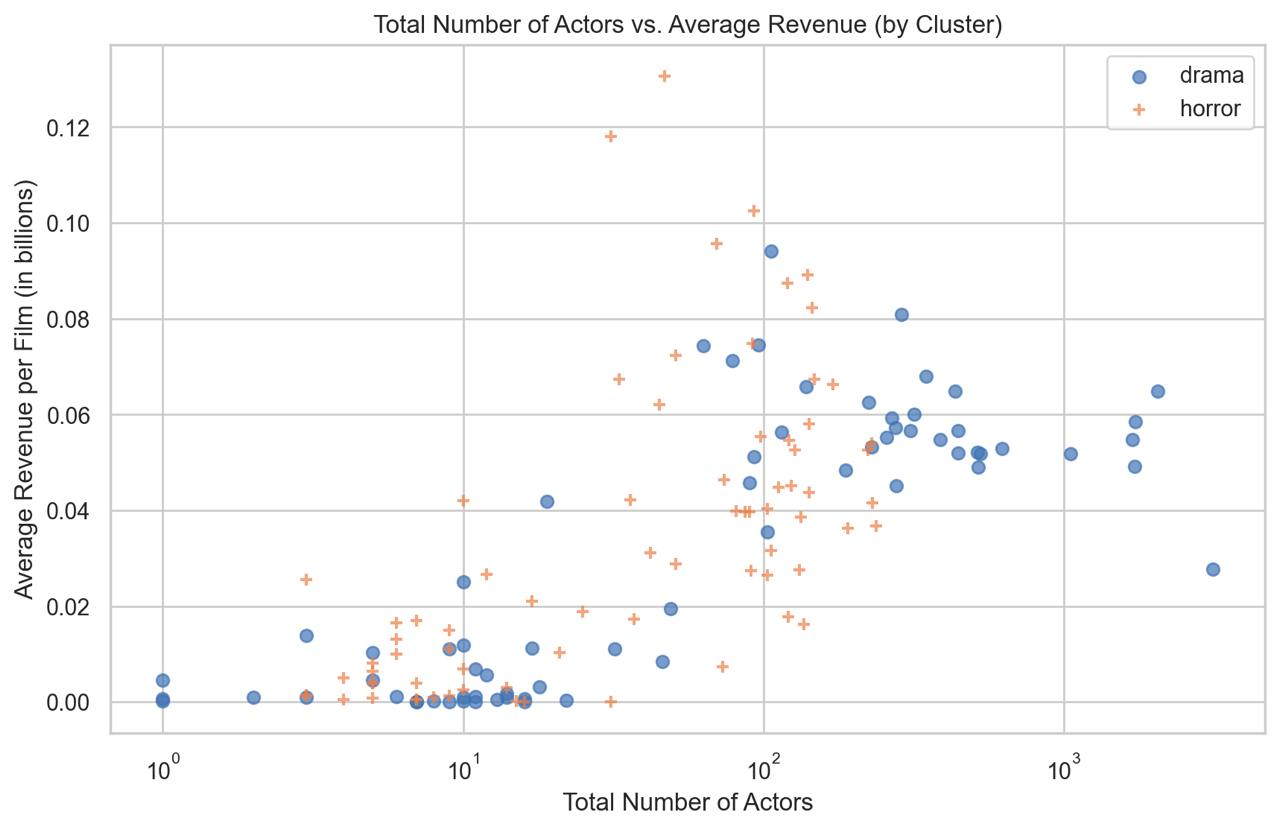
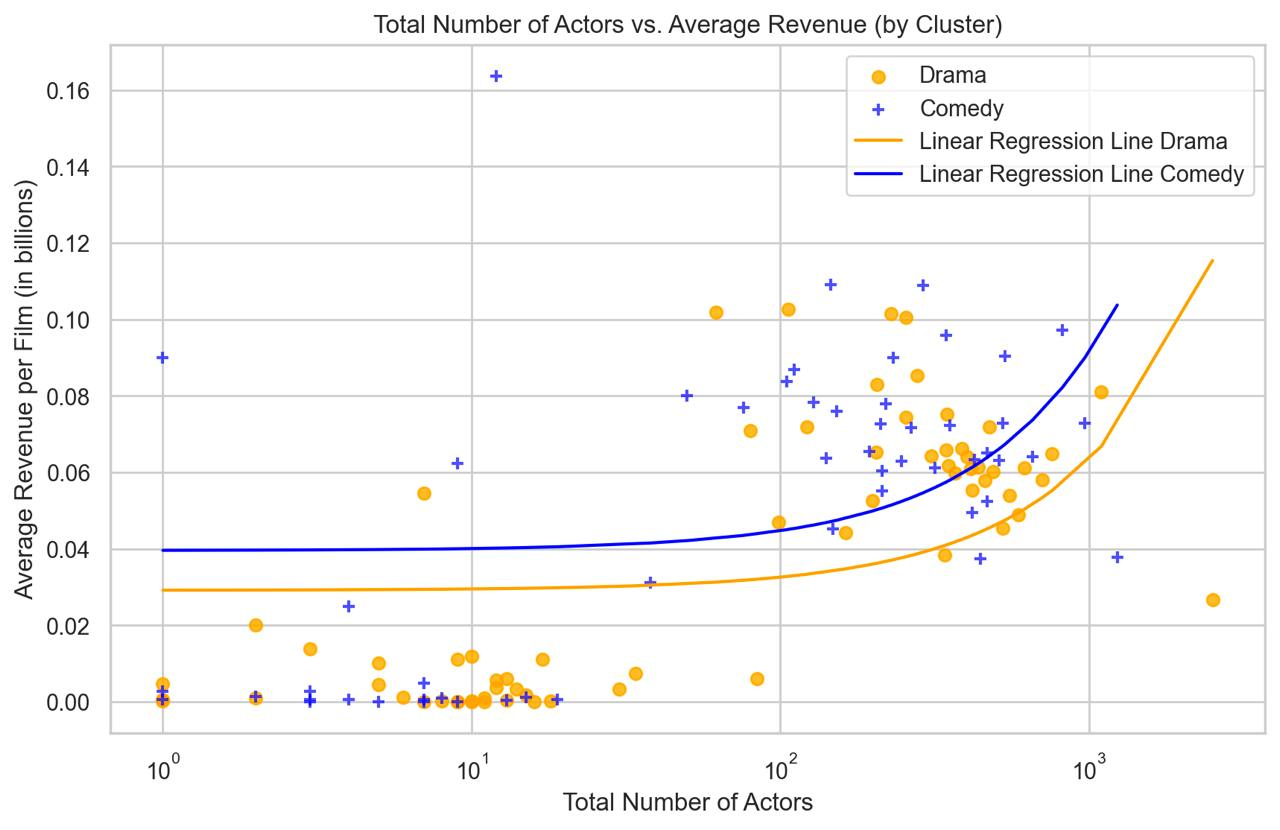
Change genre

diff --git a/index.md b/index.md
@@ -186,13 +186,13 @@ Another interesting question could be: _"How the clusters evolve in time?"_, mea
 
 ## How generalizable is the approach?
 
-While we were able to analyze the communities for the USA movies, there is still a question of generalization of the approach for other data. Hence, we tried to split our data by genre and investigate how different the findings would be. The average revenue obtained for each community versus the number of people in it is provided below for two genres (drama and horror):
+While we were able to analyze the communities for the USA movies, there is still a question of generalization of the approach for other data. Hence, we tried to split our data by genre and investigate how different the findings would be. The average revenue obtained for each community versus the number of people in it is provided below for two genres (drama and comedy):
 
 <div style="text-align: center;">
 <img class="image" width src="assets/images/q6_genre.jpg" style="width: 600px; height: auto;"/>
 </div>
 
-For each genre, instead of applying clustering on the full dataset, we took the genre subset and obtained communities only on it. Even though the drama and horror genres are completely different from the movie's perspective, the similarity between the dots positions on the plot indicates that our findings are not heavily dependent on the genre.
+For each genre, instead of applying clustering on the full dataset, we took the genre subset and obtained communities only on it. Even though the drama and comedy genres are completely different from the movie's perspective, the similarity between the dots positions and fitted linear regressions on the plot indicates that our findings are not heavily dependent on the genre.
 
 We also wanted to investigate the generalization of our findings on the non-US movies. However, the CMU dataset suffers from the absence of metadata for other countries, as you can see from the plot below. Here, we look at a language, not at a country, to provide a more general view on the problem (countries have even less movies than the number of movies for the language in this country). The revenue feature is vital for our analysis and having only around $$100$$ movies is not enough to have faithful conclusions.
 
